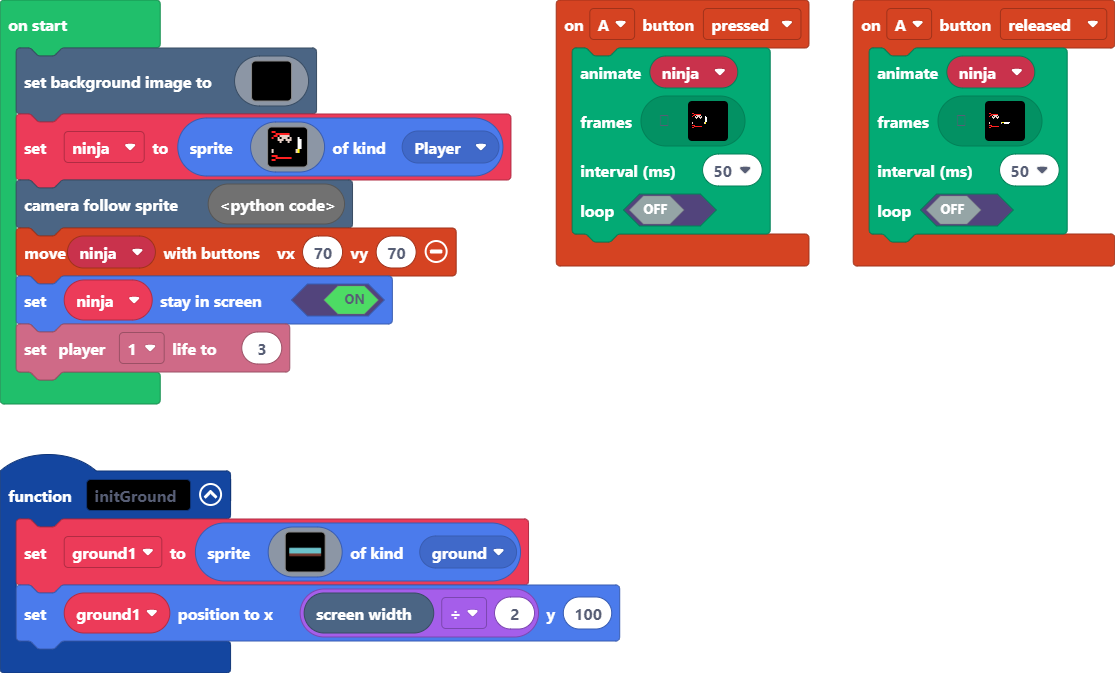
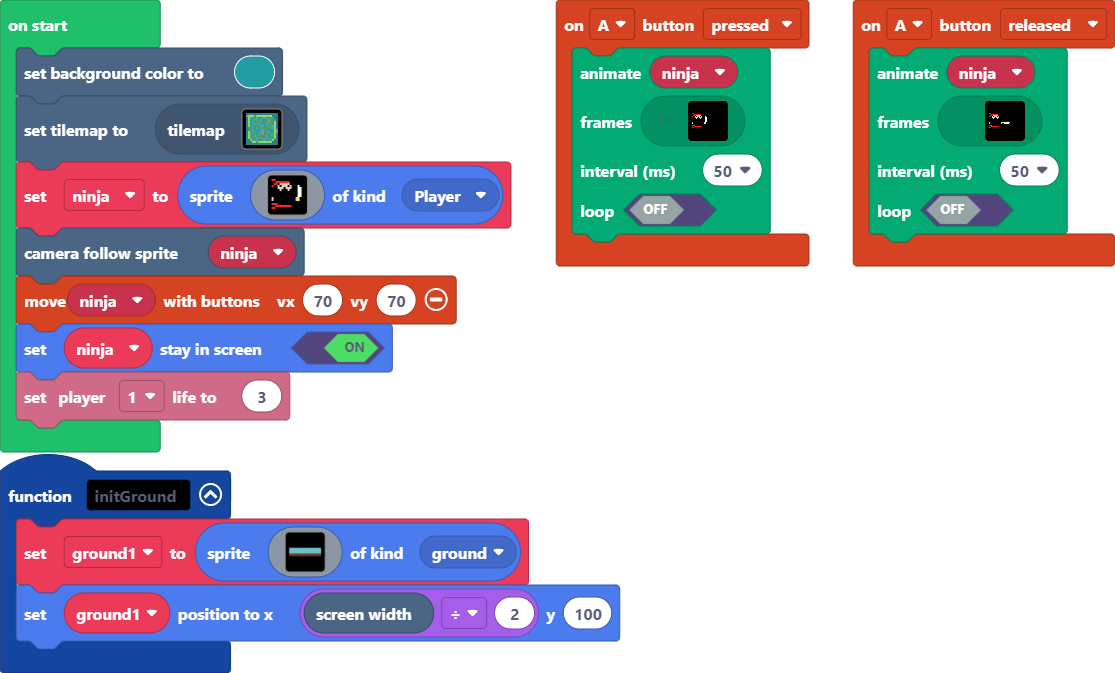
added first tilemap

Changed region(s): [[0.0, 0.0624, 0.4574, 0.6865]]

diff --git a/main.ts b/main.ts
@@ -40,130 +40,10 @@ controller.A.onEvent(ControllerButtonEvent.Released, function () {
 })
 let ground1: Sprite = null
 let ninja: Sprite = null
-scene.setBackgroundImage(img`
-    ................................................................................................................................................................
-    ................................................................................................................................................................
-    ................................................................................................................................................................
-    ................................................................................................................................................................
-    ................................................................................................................................................................
-    ................................................................................................................................................................
-    ................................................................................................................................................................
-    ................................................................................................................................................................
-    ................................................................................................................................................................
-    ................................................................................................................................................................
-    ................................................................................................................................................................
-    ................................................................................................................................................................
-    ................................................................................................................................................................
-    ................................................................................................................................................................
-    ................................................................................................................................................................
-    ................................................................................................................................................................
-    ................................................................................................................................................................
-    ................................................................................................................................................................
-    ................................................................................................................................................................
-    ................................................................................................................................................................
-    ................................................................................................................................................................
-    ................................................................................................................................................................
-    ................................................................................................................................................................
-    ................................................................................................................................................................
-    ................................................................................................................................................................
-    ................................................................................................................................................................
-    ................................................................................................................................................................
-    ................................................................................................................................................................
-    ................................................................................................................................................................
-    ................................................................................................................................................................
-    ................................................................................................................................................................
-    ................................................................................................................................................................
-    ................................................................................................................................................................
-    ................................................................................................................................................................
-    ................................................................................................................................................................
-    ................................................................................................................................................................
-    ................................................................................................................................................................
-    ................................................................................................................................................................
-    ................................................................................................................................................................
-    ................................................................................................................................................................
-    ................................................................................................................................................................
-    ................................................................................................................................................................
-    ................................................................................................................................................................
-    ................................................................................................................................................................
-    ................................................................................................................................................................
-    ................................................................................................................................................................
-    ................................................................................................................................................................
-    ................................................................................................................................................................
-    ................................................................................................................................................................
-    ................................................................................................................................................................
-    ................................................................................................................................................................
-    ................................................................................................................................................................
-    ................................................................................................................................................................
-    ................................................................................................................................................................
-    ................................................................................................................................................................
-    ................................................................................................................................................................
-    ................................................................................................................................................................
-    ................................................................................................................................................................
-    ................................................................................................................................................................
-    ................................................................................................................................................................
-    ................................................................................................................................................................
-    ................................................................................................................................................................
-    ................................................................................................................................................................
-    ................................................................................................................................................................
-    ................................................................................................................................................................
-    ................................................................................................................................................................
-    ................................................................................................................................................................
-    ................................................................................................................................................................
-    ................................................................................................................................................................
-    ................................................................................................................................................................
-    ................................................................................................................................................................
-    ................................................................................................................................................................
-    ................................................................................................................................................................
-    ................................................................................................................................................................
-    ................................................................................................................................................................
-    ................................................................................................................................................................
-    ................................................................................................................................................................
-    ................................................................................................................................................................
-    ................................................................................................................................................................
-    ................................................................................................................................................................
-    ................................................................................................................................................................
-    ................................................................................................................................................................
-    ................................................................................................................................................................
-    ................................................................................................................................................................
-    ................................................................................................................................................................
-    ................................................................................................................................................................
-    ................................................................................................................................................................
-    ................................................................................................................................................................
-    ................................................................................................................................................................
-    ................................................................................................................................................................
-    ................................................................................................................................................................
-    ................................................................................................................................................................
-    ................................................................................................................................................................
-    ................................................................................................................................................................
-    ................................................................................................................................................................
-    ................................................................................................................................................................
-    ................................................................................................................................................................
-    ................................................................................................................................................................
-    ................................................................................................................................................................
-    ................................................................................................................................................................
-    ................................................................................................................................................................
-    ................................................................................................................................................................
-    ................................................................................................................................................................
-    ................................................................................................................................................................
-    ................................................................................................................................................................
-    ................................................................................................................................................................
-    ................................................................................................................................................................
-    ................................................................................................................................................................
-    ................................................................................................................................................................
-    ................................................................................................................................................................
-    ................................................................................................................................................................
-    ................................................................................................................................................................
-    ................................................................................................................................................................
-    ................................................................................................................................................................
-    ................................................................................................................................................................
-    ................................................................................................................................................................
-    ................................................................................................................................................................
-    ................................................................................................................................................................
-    ................................................................................................................................................................
-    ................................................................................................................................................................
-    `)
+scene.setBackgroundColor(6)
+tiles.setCurrentTilemap(tilemap`map-demo`)
 ninja = sprites.create(assets.image`myImage`, SpriteKind.Player)
-scene.cameraFollowSprite(null)
+scene.cameraFollowSprite(ninja)
 controller.moveSprite(ninja, 70, 70)
 ninja.setStayInScreen(true)
 info.player1.setLife(3)

diff --git a/tilemap.g.ts b/tilemap.g.ts
@@ -2,10 +2,77 @@
 namespace myTiles {
     //% fixedInstance jres blockIdentity=images._tile
     export const transparency16 = image.ofBuffer(hex``);
+    //% fixedInstance jres blockIdentity=images._tile
+    export const tile1 = image.ofBuffer(hex``);
+
+    helpers._registerFactory("tilemap", function(name: string) {
+        switch(helpers.stringTrim(name)) {
+            case "level2":
+            case "level2":return tiles.createTilemap(hex`1000100000000000000000000000000000000000000000000000000000000000000000000000000000000000000000000000000000000000000000000000000000000000000000000000000000000000000000000000000000000000000000000000000000000000000000000000000000000000000000000000000000000000000000000000000000000000000000000000000000000000000000000000000000000000000000000000000000000000000000000000000000000000000000000000000000000000000000000000000000000000000000000000000000000000000000000000000000000000000000000000000000000000000000000000000000000000`, img`
+. . . . . . . . . . . . . . . . 
+. . . . . . . . . . . . . . . . 
+. . . . . . . . . . . . . . . . 
+. . . . . . . . . . . . . . . . 
+. . . . . . . . . . . . . . . . 
+. . . . . . . . . . . . . . . . 
+. . . . . . . . . . . . . . . . 
+. . . . . . . . . . . . . . . . 
+. . . . . . . . . . . . . . . . 
+. . . . . . . . . . . . . . . . 
+. . . . . . . . . . . . . . . . 
+. . . . . . . . . . . . . . . . 
+. . . . . . . . . . . . . . . . 
+. . . . . . . . . . . . . . . . 
+. . . . . . . . . . . . . . . . 
+. . . . . . . . . . . . . . . . 
+`, [myTiles.transparency16], TileScale.Sixteen);
+            case "level3":
+            case "level3":return tiles.createTilemap(hex`1000100000000000000000000000000000000000000000000000000000000000000000000000000000000000000000000000000000000000000000000000000000000000000000000000000000000000000000000000000000000000000000000000000000000000000000000000000000000000000000000000000000000000000000000000000000000000000000000000000000000000000000000000000000000000000000000000000000000000000000000000000000000000000000000000000000000000000000000000000000000000000000000000000000000000000000000000000000000000000000000000000000000000000000000000000000000000`, img`
+. . . . . . . . . . . . . . . . 
+. . . . . . . . . . . . . . . . 
+. . . . . . . . . . . . . . . . 
+. . . . . . . . . . . . . . . . 
+. . . . . . . . . . . . . . . . 
+. . . . . . . . . . . . . . . . 
+. . . . . . . . . . . . . . . . 
+. . . . . . . . . . . . . . . . 
+. . . . . . . . . . . . . . . . 
+. . . . . . . . . . . . . . . . 
+. . . . . . . . . . . . . . . . 
+. . . . . . . . . . . . . . . . 
+. . . . . . . . . . . . . . . . 
+. . . . . . . . . . . . . . . . 
+. . . . . . . . . . . . . . . . 
+. . . . . . . . . . . . . . . . 
+`, [myTiles.transparency16], TileScale.Sixteen);
+            case "map-demo":
[1 lines of base64/hex data omitted]
+. . . . . . . . . . . . . . . . 
+. . . . . . . . . . . . . . . . 
+. . . . . . . . . . . . . . . . 
+. . . . . . . . . . . . . . . . 
+. . . . . . . . . . . . . . . . 
+. . . . . . . . . . . . . . . . 
+. . . . . . . . . . . . . . . . 
+. . . . . . . . . . . . . . . . 
+. . . . . . . . . . . . . . . . 
+. . . . . . . . . . . . . . . . 
+. . . . . . . . . . . . . . . . 
+. . . . . . . . . . . . . . . . 
+. . . . . . . . . . . . . . . . 
+. . . . . . . . . . . . . . . . 
+. . . . . . . . . . . . . . . . 
+. . . . . . . . . . . . . . . . 
+`, [myTiles.transparency16,sprites.castle.tileGrass2,sprites.castle.tileGrass1,sprites.builtin.forestTiles0,sprites.castle.tileDarkGrass3,sprites.castle.tileDarkGrass2,sprites.castle.tileDarkGrass1,sprites.swamp.swampTile1,sprites.builtin.forestTiles21,sprites.builtin.forestTiles23,sprites.builtin.forestTiles20,sprites.swamp.swampTile0,sprites.swamp.swampTile2,sprites.castle.saplingPine,sprites.castle.shrub,sprites.castle.rock0,sprites.castle.rock2], TileScale.Sixteen);
+        }
+        return null;
+    })
 
     helpers._registerFactory("tile", function(name: string) {
         switch(helpers.stringTrim(name)) {
             case "transparency16":return transparency16;
+            case "myTile":
+            case "tile1":return tile1;
         }
         return null;
     })
